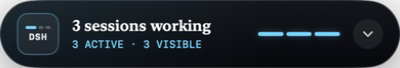
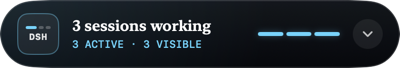
Fix transparent island corners in the app and previews (#2)
Preserve full transparency outside the native capsule, harden screenshot capture, and regenerate privacy-safe community assets.

diff --git a/scripts/verify-transparent-corners.swift b/scripts/verify-transparent-corners.swift
@@ -1,0 +1,62 @@
+import AppKit
+import Foundation
+
+guard CommandLine.arguments.count > 1 else {
+  fputs("usage: verify-transparent-corners <png> [...]\n", stderr)
+  exit(64)
+}
+
+for path in CommandLine.arguments.dropFirst() {
+  guard
+    let data = FileManager.default.contents(atPath: path),
+    let image = NSBitmapImageRep(data: data)
+  else {
+    fputs("could not read PNG: \(path)\n", stderr)
+    exit(1)
+  }
+  guard image.hasAlpha else {
+    fputs("PNG has no alpha channel: \(path)\n", stderr)
+    exit(1)
+  }
+
+  let probeDepth = min(8, min(image.pixelsWide, image.pixelsHigh) / 8)
+  for xOffset in 0..<probeDepth {
+    for yOffset in 0..<probeDepth {
+      let cornerPoints = [
+        (xOffset, yOffset),
+        (image.pixelsWide - 1 - xOffset, yOffset),
+        (xOffset, image.pixelsHigh - 1 - yOffset),
+        (image.pixelsWide - 1 - xOffset, image.pixelsHigh - 1 - yOffset),
+      ]
+      for (x, y) in cornerPoints {
+        guard let color = image.colorAt(x: x, y: y), color.alphaComponent <= 0.01 else {
+          fputs(
+            "PNG corner alpha \(colorAt(image, x: x, y: y)) exceeds 0.01 at \(x),\(y): \(path)\n",
+            stderr
+          )
+          exit(1)
+        }
+      }
+    }
+  }
+
+  let surfacePoints = [
+    (image.pixelsWide / 2, 0),
+    (image.pixelsWide / 2, image.pixelsHigh - 1),
+    (0, image.pixelsHigh / 2),
+    (image.pixelsWide - 1, image.pixelsHigh / 2),
+  ]
+  for (x, y) in surfacePoints {
+    guard let color = image.colorAt(x: x, y: y), color.alphaComponent >= 0.95 else {
+      fputs("PNG surface edge is unexpectedly transparent at \(x),\(y): \(path)\n", stderr)
+      exit(1)
+    }
+  }
+
+  print("transparent rounded corners: \(path)")
+}
+
+private func colorAt(_ image: NSBitmapImageRep, x: Int, y: Int) -> String {
+  guard let color = image.colorAt(x: x, y: y) else { return "unavailable" }
+  return String(format: "%.4f", color.alphaComponent)
+}

diff --git a/Sources/DSHIslandApp/IslandPanel.swift b/Sources/DSHIslandApp/IslandPanel.swift
@@ -54,10 +54,17 @@ final class IslandPanelController: NSObject, NSWindowDelegate {
       .ignoresCycle,
       .stationary,
     ]
-    panel.contentViewController = NSHostingController(
+    let hostingController = NSHostingController(
       rootView: IslandView(model: model, openSettings: openSettings)
         .frame(maxWidth: .infinity, maxHeight: .infinity)
     )
+    hostingController.view.wantsLayer = true
+    hostingController.view.layer?.backgroundColor = NSColor.clear.cgColor
+    hostingController.view.layer?.isOpaque = false
+    hostingController.view.layer?.cornerCurve = .continuous
+    hostingController.view.layer?.cornerRadius = collapsedSize.height / 2
+    hostingController.view.layer?.masksToBounds = true
+    panel.contentViewController = hostingController
     restorePosition()
   }
 
@@ -78,6 +85,7 @@ final class IslandPanelController: NSObject, NSWindowDelegate {
   /// Resizes around a fixed top-center anchor so expansion unfolds downward.
   func setExpanded(_ expanded: Bool, animated: Bool = true) {
     let targetSize = expanded ? expandedSize : collapsedSize
+    panel.contentViewController?.view.layer?.cornerRadius = expanded ? 28 : collapsedSize.height / 2
     let oldFrame = panel.frame
     if abs(oldFrame.width - targetSize.width) < 0.5,
       abs(oldFrame.height - targetSize.height) < 0.5

diff --git a/docs/marketing/preview.html b/docs/marketing/preview.html
@@ -229,7 +229,11 @@
       }
 
       .product-image {
+        --product-radius: 28px;
         display: block;
+        overflow: hidden;
+        border-radius: var(--product-radius);
+        clip-path: inset(0 round var(--product-radius));
         filter: drop-shadow(0 26px 45px rgba(0, 0, 0, 0.46));
       }
 
@@ -373,12 +377,16 @@
       }
 
       .social-product .collapsed-accent {
+        --product-radius: 34px;
         position: absolute;
         z-index: 6;
         top: 420px;
         right: -3px;
         width: 330px;
         opacity: 0.7;
+        overflow: hidden;
+        border-radius: var(--product-radius);
+        clip-path: inset(0 round var(--product-radius));
         filter: blur(0.1px) drop-shadow(0 20px 28px rgba(0, 0, 0, 0.44));
       }
 
@@ -397,6 +405,7 @@
 
       .demo-layout[data-state="working"] .product-image,
       .demo-layout[data-state="attention"] .product-image {
+        --product-radius: 34px;
         width: 400px;
       }
 

diff --git a/scripts/window-id.swift b/scripts/window-id.swift
@@ -1,0 +1,34 @@
+import CoreGraphics
+import Foundation
+
+guard CommandLine.arguments.count == 2,
+  let processID = Int32(CommandLine.arguments[1])
+else {
+  fputs("usage: window-id <process-id>\n", stderr)
+  exit(64)
+}
+
+let windows =
+  CGWindowListCopyWindowInfo([.optionOnScreenOnly, .excludeDesktopElements], .zero)
+  as? [[String: Any]] ?? []
+
+let candidates = windows.compactMap { window -> (number: Int, area: CGFloat)? in
+  guard
+    window[kCGWindowOwnerPID as String] as? Int32 == processID,
+    let number = window[kCGWindowNumber as String] as? Int,
+    let boundsDictionary = window[kCGWindowBounds as String] as? NSDictionary
+  else {
+    return nil
+  }
+  var bounds = CGRect.zero
+  guard CGRectMakeWithDictionaryRepresentation(boundsDictionary, &bounds) else {
+    return nil
+  }
+  return (number, bounds.width * bounds.height)
+}
+
+guard let window = candidates.max(by: { $0.area < $1.area }) else {
+  exit(1)
+}
+
+print(window.number)

diff --git a/Sources/DSHIslandApp/IslandView.swift b/Sources/DSHIslandApp/IslandView.swift
@@ -66,7 +66,6 @@ struct IslandView: View {
           lineWidth: contrast == .increased ? 1.5 : 1
         )
     }
-    .shadow(color: Color.black.opacity(0.46), radius: 24, y: 10)
     .animation(
       reduceMotion ? .easeOut(duration: 0.12) : .spring(response: 0.32, dampingFraction: 0.86),
       value: model.isExpanded

diff --git a/docs/marketing/README.md b/docs/marketing/README.md
@@ -2,14 +2,19 @@
 
 The repository's screenshots and GIFs must never depend on a user's live DSH Host, desktop, home directory, account, notifications, or browser state.
 
-`preview.html` renders a synthetic developer workspace around deterministic DSH Island fixtures. Its visible files, code, session titles, Todo text, status counts, and paths are invented for the demo. The source uses only repository-local assets and system fonts; it performs no network requests and contains no analytics.
+`capture-product-assets.sh` launches the deterministic app fixtures and uses macOS window capture so the product PNGs retain transparent rounded corners. The script rejects any capture without an alpha channel or with more than 0.01 alpha anywhere in its sampled corner regions. `preview.html` adds a second rounded clip while rendering a synthetic developer workspace. Its visible files, code, session titles, Todo text, status counts, and paths are invented for the demo. The source uses only repository-local assets and system fonts; it performs no network requests and contains no analytics.
 
-Run `./scripts/render-marketing-assets.sh` on macOS with Google Chrome installed to create:
+Run `./scripts/render-marketing-assets.sh` on macOS with Google Chrome and ffmpeg installed to recapture the product and create:
+
+- `docs/assets/dsh-island-working.png`
+- `docs/assets/dsh-island-collapsed.png`
+- `docs/assets/dsh-island-expanded.png`
 
 - `docs/assets/dsh-island-social-preview.png`
 - `docs/assets/dsh-island-desktop.png`
+- `docs/assets/dsh-island-demo.gif`
 - `.marketing/gif-frames/*.png`
 
-Encode the four GIF frames in lexical order with durations `2.2,1.6,0.5,3.2` seconds. The published `docs/assets/dsh-island-demo.gif` is 1200×720, 7.5 seconds, and intentionally uses state-based frames rather than recording a personal desktop.
+The script encodes the four GIF frames in lexical order with durations `2.2,1.6,0.5,3.2` seconds. The published `docs/assets/dsh-island-demo.gif` is 1200×720, 7.5 seconds, and intentionally uses state-based frames rather than recording a personal desktop.
 
 Before publication, visually inspect the final PNGs and decoded representative GIF frames, then confirm that metadata and OCR contain no username, home path, email address, token, live session title, or unrelated notification.

diff --git a/docs/validation.md b/docs/validation.md
@@ -23,6 +23,6 @@ The application established the two published downlink WebSockets plus an HTTP k
 
 ## Community-media privacy check
 
-The community preview update ran `./scripts/render-marketing-assets.sh` against repository-local fixtures and encoded four state frames into a 1200×720, 7.5-second GIF. The desktop and editor context is synthetic HTML; the DSH Island pixels come from the deterministic `--demo-working` and `--demo-expanded` modes. No live DSH Host, personal desktop, browser profile, home path, account, notification, or session was used.
+The community preview update ran `./scripts/render-marketing-assets.sh` against repository-local fixtures and encoded four state frames into a 1200×720, 7.5-second GIF. Product screenshots come from macOS window capture, retain transparent rounded corners, and pass an alpha-channel gate that limits every sampled corner-region pixel to 0.01 alpha before composition. The marketing template applies a second rounded clip. The desktop and editor context is synthetic HTML; the DSH Island pixels come from the deterministic `--demo-working`, `--demo`, and `--demo-expanded` modes. No live DSH Host, personal desktop, browser profile, home path, account, notification, or session was used.
 
-`swift test` passed all 28 tests. The strict release build, `bash -n scripts/build-app.sh scripts/render-marketing-assets.sh`, `git diff --check`, PNG/GIF format and dimension checks, final-GIF decode inspection, metadata inspection, OCR scanning, and binary-string scanning passed. The privacy scans looked for a home path, local username, Feishu identifiers, conversation identifiers, email addresses, API-key labels, and token labels; none appeared in the published media.
+`swift test` passed all 28 tests. The strict release build, `bash -n scripts/build-app.sh scripts/capture-product-assets.sh scripts/render-marketing-assets.sh`, `git diff --check`, PNG/GIF format and dimension checks, final-GIF decode inspection, metadata inspection, OCR scanning, and binary-string scanning passed. The privacy scans looked for a home path, local username, Feishu identifiers, conversation identifiers, email addresses, API-key labels, and token labels; none appeared in the published media.

diff --git a/docs/product-design.md b/docs/product-design.md
@@ -18,6 +18,8 @@ The interface follows an aeronautical-instrument aesthetic: an obsidian capsule,
 
 The memorable element is the signal rail. Each visible session contributes a short segment colored by its state; the highest-priority segment leads. It makes several concurrent Agents legible without turning the island into a dashboard.
 
+The native window and hosting surface remain fully transparent outside the continuous rounded capsule. The capsule uses its internal gradient and border for separation instead of an outer shadow, because shadow pixels clipped to the rectangular window frame become visible corner blocks on light desktops. The native hosting layer enforces the same continuous corner radius as SwiftUI. Product screenshots preserve that alpha channel, and composed community artwork clips the screenshot to the same radius as a second safeguard.
+
 ### Visual tokens
 
 | Role | Value |
@@ -132,3 +134,4 @@ Not included:
 12. Given Reduce Motion is enabled, when state changes or the island expands, then no repeating pulse or spring animation is used.
 13. Given a local DSH Web instance at a non-default port, when the endpoint is saved, then the app reconnects without restart and persists the normalized URL.
 14. Given the optional deep-link plugin is absent, when a session row is clicked, then the DSH Web UI still opens and the island remains operational.
+15. Given either island state over any desktop color, when the native window or a published preview is rendered, then the corner regions outside the continuous rounded capsule have at most 0.01 alpha and no rectangular corner background is visible.
